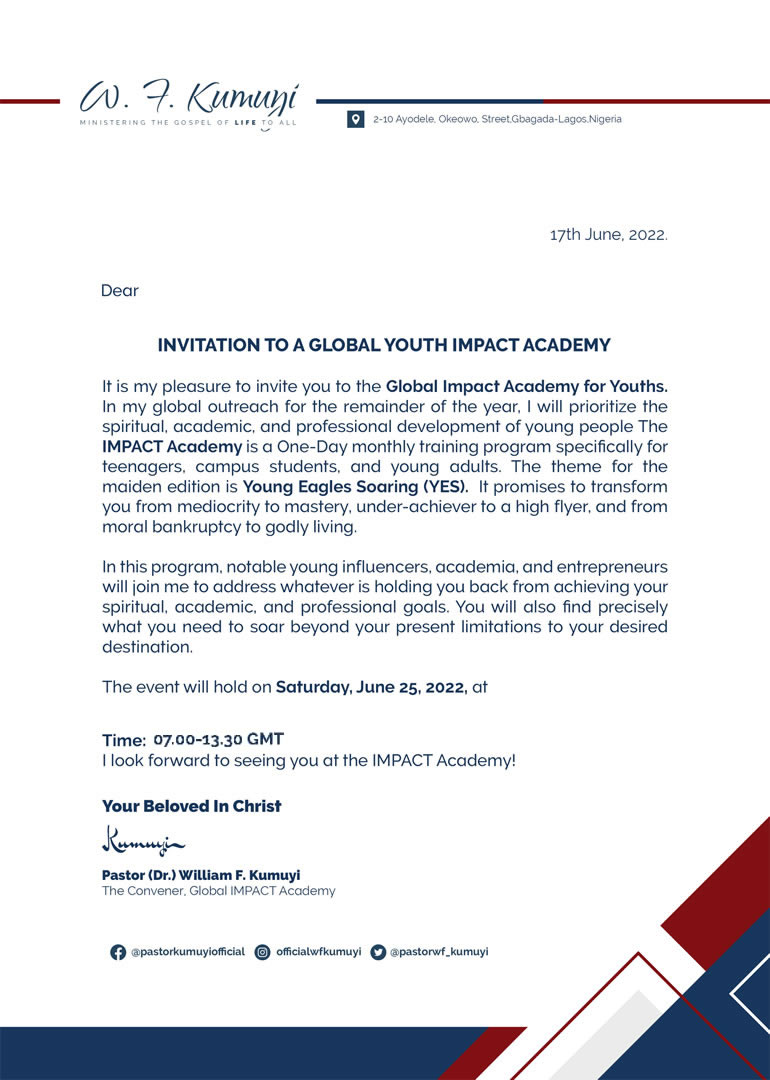
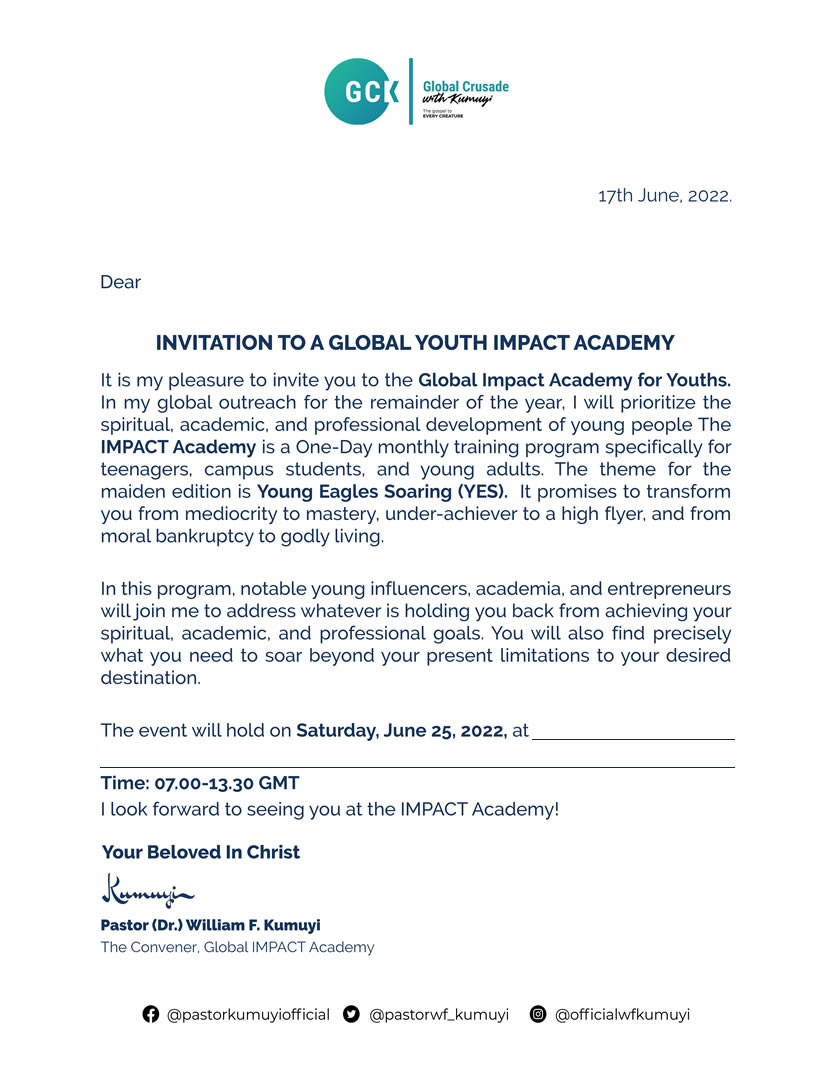
IMPACT: Letter Changed

diff --git a/personalizedflyer/letter.php b/personalizedflyer/letter.php
@@ -50,7 +50,7 @@ if(isset($_POST['getLetter'])){
 		// @$date = filter_var(str_replace('','',$_POST['setDate']), FILTER_SANITIZE_STRING);
 		@$date = date('l, F d, Y', strtotime($_POST['setDate']));
 		$text4  = Text::from($date.", at ")
-	        ->position(280, 693)
+	        ->position(300, 733)
 	        ->font(12, __DIR__ . '/fonts/Raleway-ExtraBold.ttf')
 	        ->color(24, 54, 92);		
 	}
@@ -64,12 +64,12 @@ if(isset($_POST['getLetter'])){
 
 	// $text  = Text::from("Dear ".$name.",")
 	$text  = Text::from($name.",")
-		        ->position(150, 300)
+		        ->position(150, 290)
 		        ->font(22, __DIR__ . '/fonts/sweet purple.otf')
 		        ->color(24, 54, 92);
 
 	$text2  = Text::from($location)
-		        ->position(102, 715)
+		        ->position(100, 759)
 		        ->font(12, __DIR__ . '/fonts/Raleway-ExtraBold.ttf')
 		        ->color(24, 54, 92);
 
@@ -238,7 +238,7 @@ user-select: none;
 	  <form action="" method="POST">
 		<img class="mb-4" src="dclm-logo.png" alt="" width="72">
 		<h1 class="h6 mb-3 fw-bold text-light">Please enter your invitee's details</h1>
-		<?php //print date('Hi') ;?>
+		<?php //print date('Hi'); ?>
 		<div class="form-floating">
 		  <input type="text" class="form-control" id="fullname" name="fullname" placeholder="Fullname">
 		  <label for="fullname">Fullname</label>
@@ -249,22 +249,22 @@ user-select: none;
 		  <input type="text" class="form-control" id="address" name="address" maxlength="34" placeholder="Location Address">
 		  <label for="address">Location Address</label>
 		</div>
-		<?if($allowLocation == 10){?>
+		<?php if($allowLocation == 10){ ?>
 		<div class="form-floating mt-1">
 		  <input type="text" class="form-control" id="address2" name="address2" maxlength="70" placeholder="Address Line 2">
 		  <label for="address2">Address Line 2</label>
 		</div>
-		<? } ?>
+		<?php } ?>
 
-		<?if($customDateLocal == 1){?>
+		<?php if($customDateLocal == 1){ ?>
 		<div class="form-floating mt-1">
 		  <!-- <input type="date" class="form-control" id="setDate" name="setDate" maxlength="34" placeholder="Event Date(ex: January 5 - 6)"> -->
 		  <input type="date" class="form-control" id="setDate" name="setDate">
 		  <label for="setDate">Event Date</label>
 		</div>
-		<? } ?>
+		<?php } ?>
 
-		<?if($use_database == 1){?>
+		<?php if($use_database == 1){ ?>
 		<div class="form-floating">
 		  <input type="text" class="form-control" id="phone" name="phone" placeholder="Phone Number">
 		  <label for="phone">Phone Number</label>
@@ -273,13 +273,13 @@ user-select: none;
 		<div class="form-floating">
 		  <select class="form-select" id="state" name="state">
 			<option selected disabled>Select State</option>
-			<?php foreach($states as $state){?>
+			<?php foreach($states as $state){ ?>
 				<option><?php print $state;?></option>
-			<? } ?>
+			<?php } ?>
 		  </select>
 		  <label for="state" class="form-label">Select State:</label>
 		</div>
-		<? } ?>
+		<?php } ?>
 		<button name="getLetter" class="w-100 btn btn-lg btn-primary mt-3" type="submit">Submit</button>
 		<!-- <a href="<?php print $script_url;?>/letter.php?setlocal=yes" class="btn btn-sm btn-danger mt-1">Get a Letter with Custom Location</a> -->
 		<a href="<?php print $script_url;?>/letter.php?setlocal=yes&setDate=yes" class="btn btn-sm btn-warning mt-1">Letter with Custom Date & Location</a>
@@ -310,16 +310,16 @@ user-select: none;
 		</button>
 	  </div>
 	  <div class="toast-body">
-	  	<p class="mx-2">Click on the button below to Download Letter for <b><?php @print $name?></b></p>
-	  	<a href=".<?php print $filename?>.jpg" target="_blank" class="btn btn-success btn-sm mb-1 me-auto" download>Download Letter</a>
+	  	<p class="mx-2">Click on the button below to Download Letter for <b><?php @print $name; ?></b></p>
+	  	<a href=".<?php print $filename; ?>.jpg" target="_blank" class="btn btn-success btn-sm mb-1 me-auto" download>Download Letter</a>
 	  	<span class="btn btn-danger btn-sm m-auto mb-1 closeToast" data-bs-dismiss="toast">Close</span>
 		<div class="letter-box">
-			<img src=".<?php print $filename?>.jpg" class="m-auto border rounded">
+			<img src=".<?php print $filename; ?>.jpg" class="m-auto border rounded">
 		</div>
 	  </div>
 	</div>
 </div><!--//#toastsContainerTopRight-->
-<? } ?>
+<?php } ?>
 
 <script>
 $(document).ready(function(){
@@ -343,15 +343,4 @@ $(document).ready(function(){
 
   </body>
 </html>
-
-
-
-
-
-
-
-
-
-
-
 
